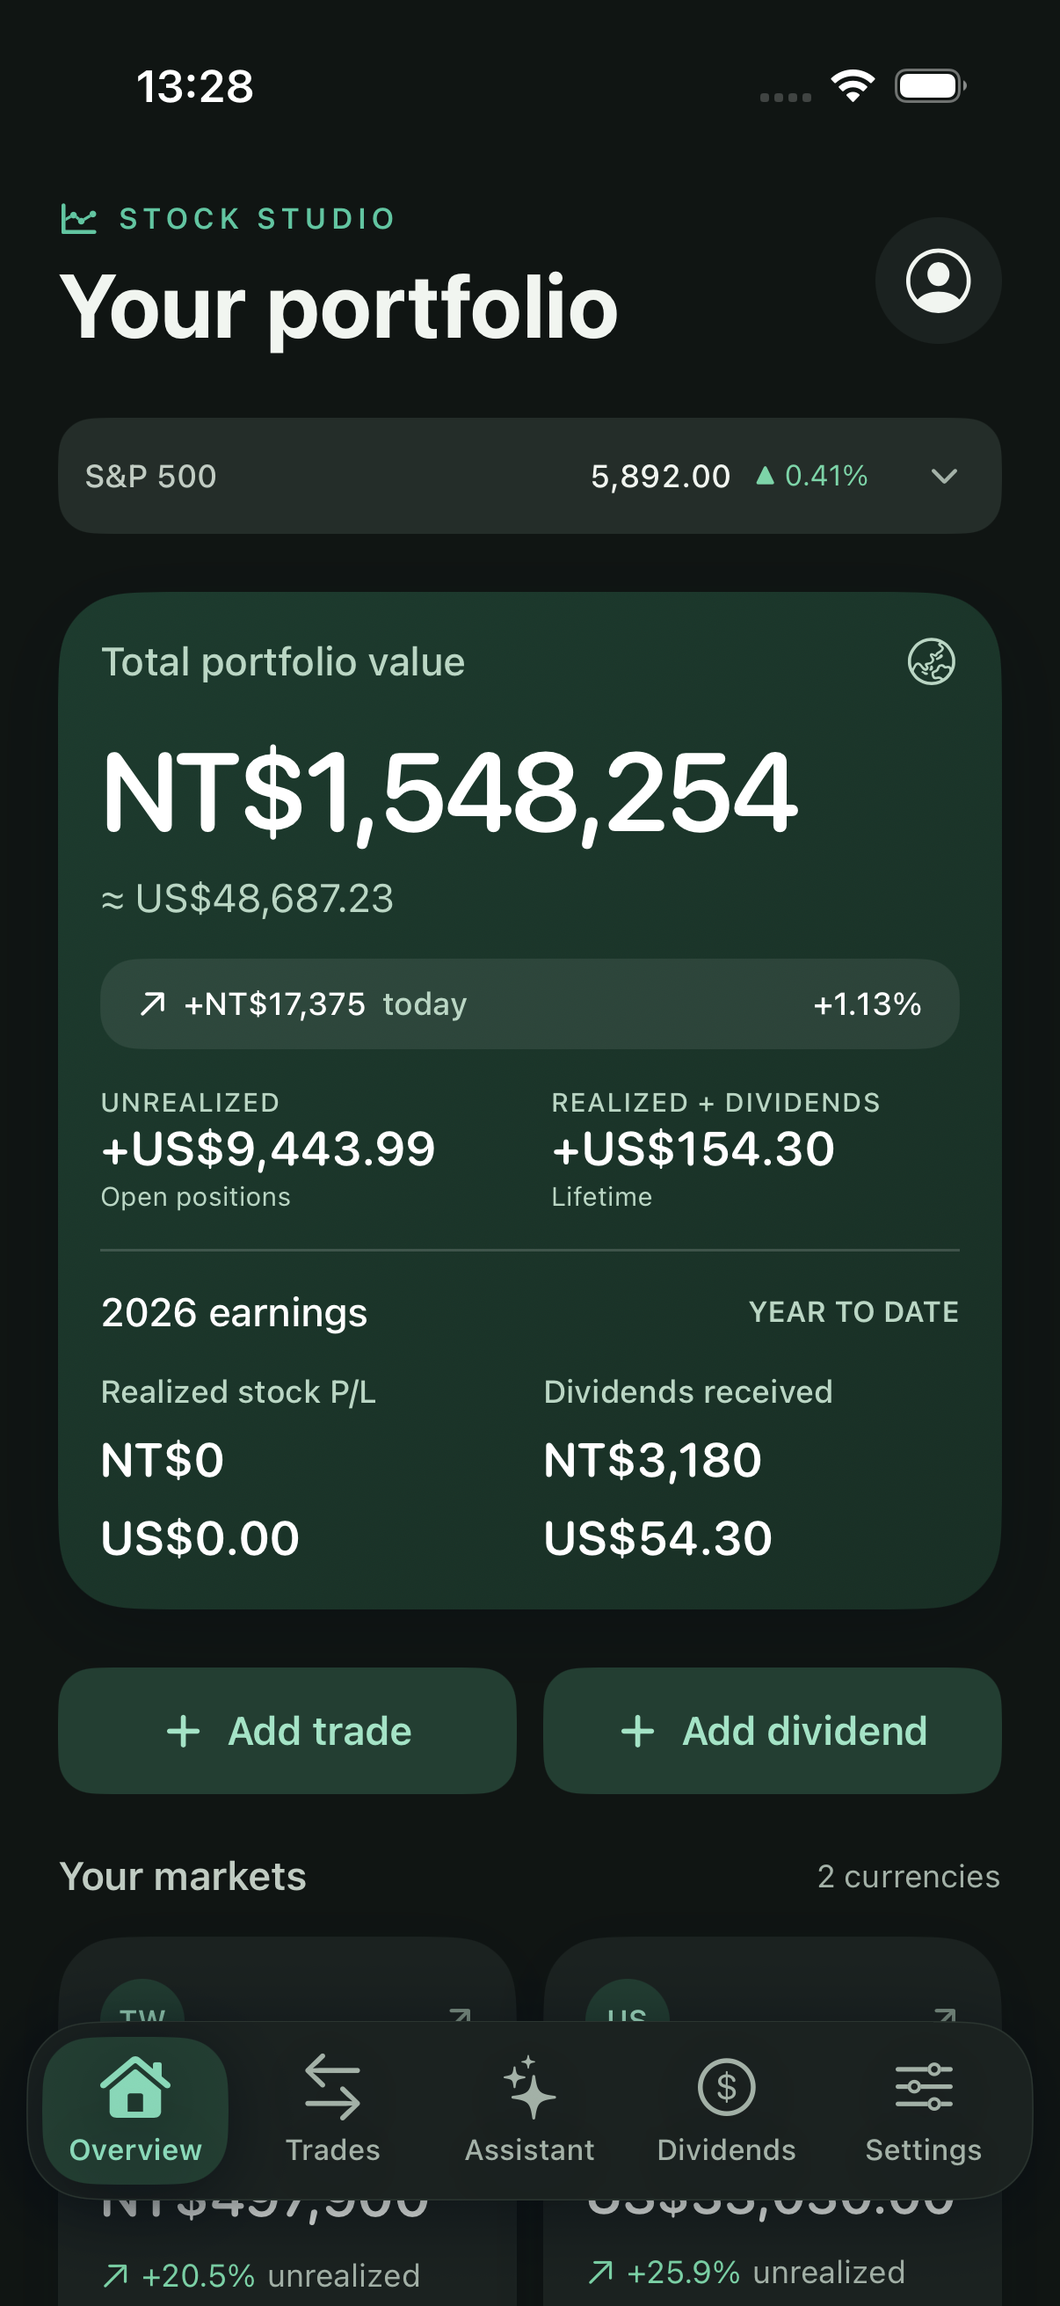
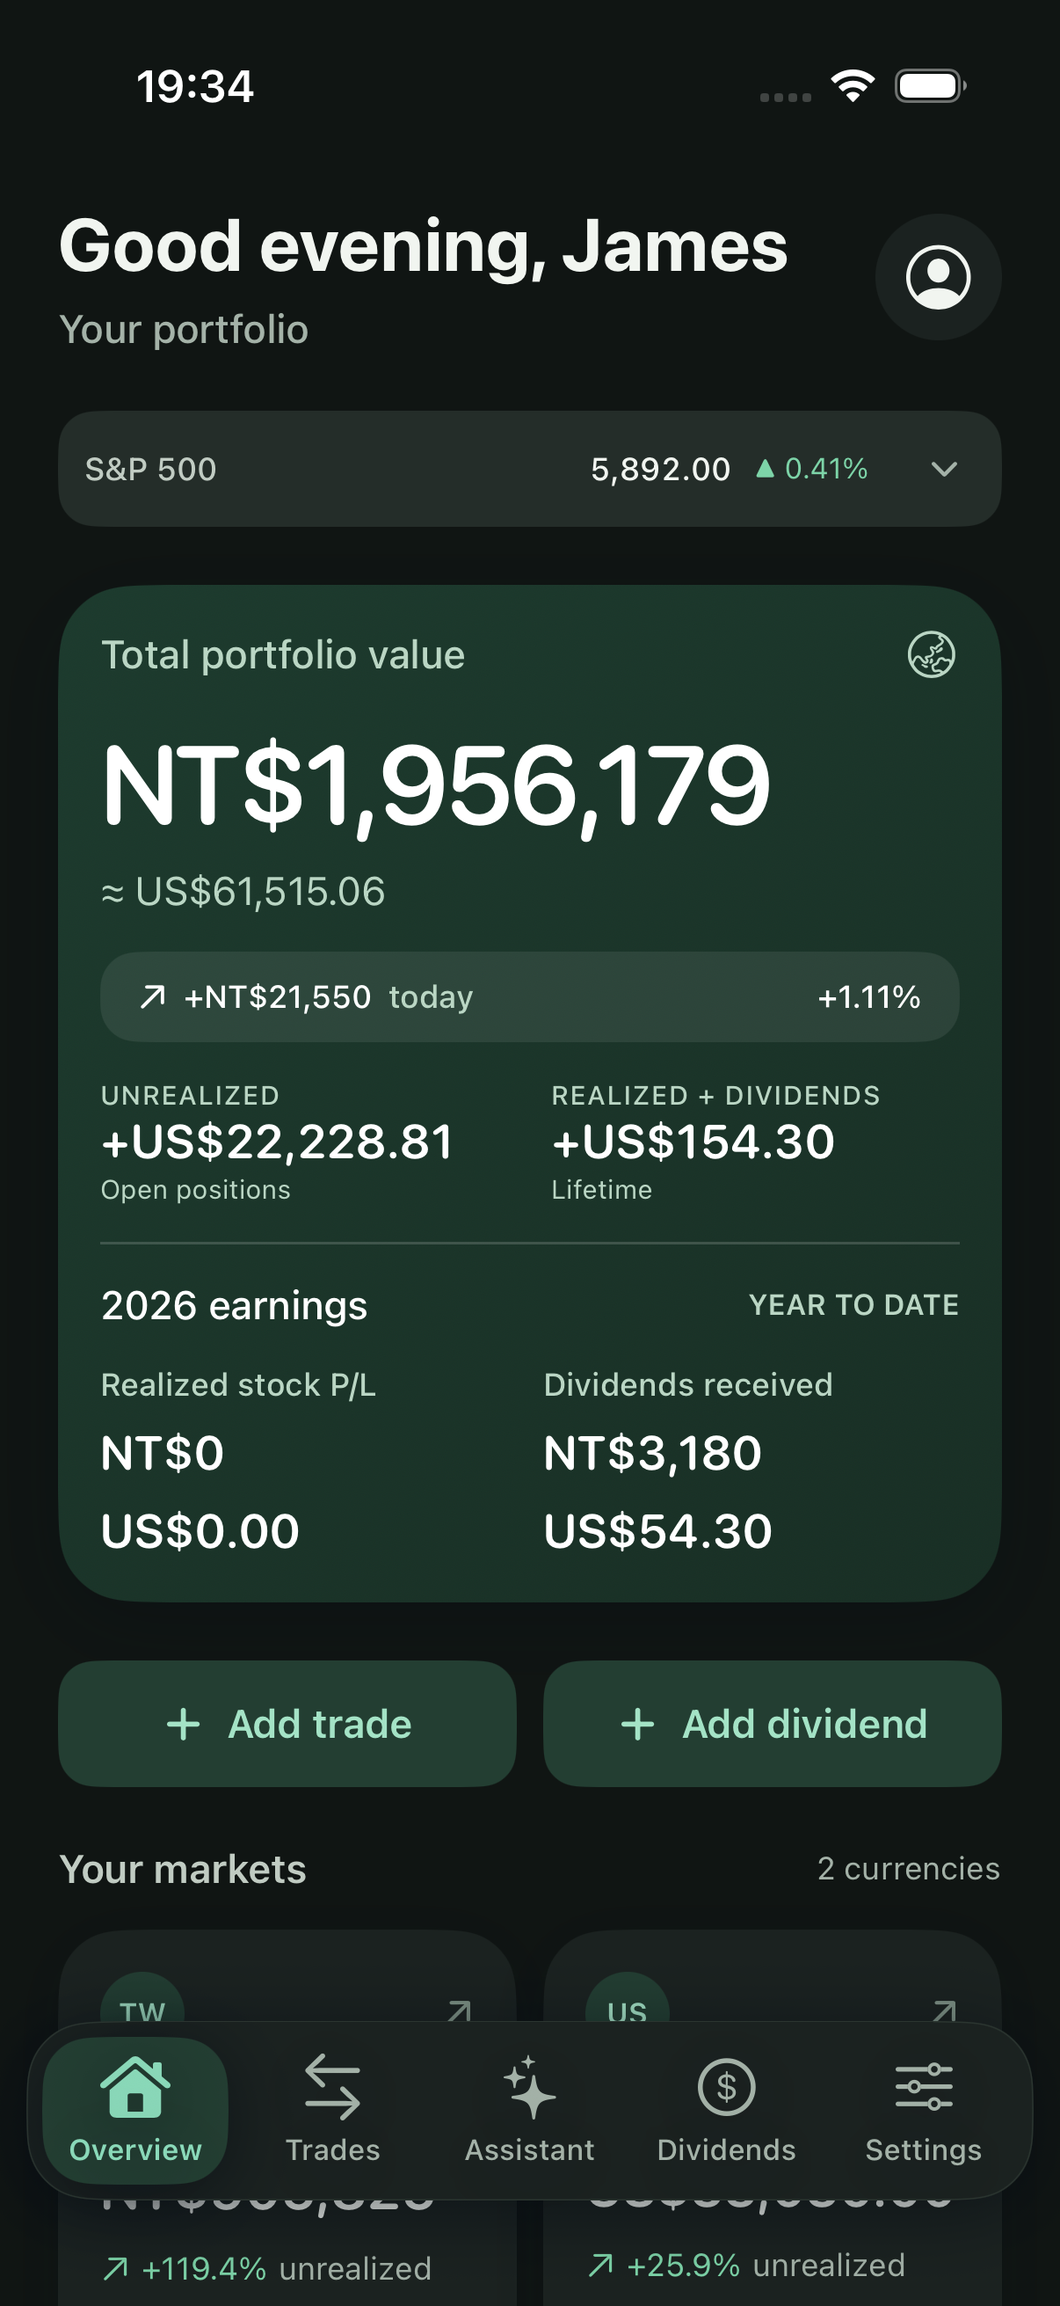
Personalize the portfolio header with local-time greetings
Use Google given names and compatible cached-profile fallbacks, retain a smaller portfolio subtitle, and refresh release screenshots. Verified 56 unit tests and light, dark, and large-text greeting UI checks.

diff --git a/ios/StockTracker/Views/Overview/OverviewView.swift b/ios/StockTracker/Views/Overview/OverviewView.swift
@@ -1,11 +1,26 @@
 import SwiftUI
 
+enum PortfolioGreeting {
+    static func text(hour: Int, firstName: String?) -> String {
+        let salutation: String
+        switch hour {
+        case 5..<12: salutation = "Good morning"
+        case 12..<17: salutation = "Good afternoon"
+        default: salutation = "Good evening" // An arrival greeting, including late at night.
+        }
+        guard let name = firstName?.trimmingCharacters(in: .whitespacesAndNewlines),
+              !name.isEmpty else { return salutation }
+        return "\(salutation), \(name)"
+    }
+}
+
 /// The landing screen: one net worth across both markets, the curve that got
 /// there, and a door into each market.
 ///
 /// A value-led overview with quick actions and direct market entry points.
 struct OverviewView: View {
     @EnvironmentObject private var store: PortfolioStore
+    @EnvironmentObject private var auth: AuthStore
     @Environment(\.dynamicTypeSize) private var typeSize
     let onOpenMarket: (MarketCode) -> Void
     var onAskAssistant: () -> Void = {}
@@ -83,9 +98,18 @@ struct OverviewView: View {
     private var header: some View {
         HStack(alignment: .center) {
             VStack(alignment: .leading, spacing: Theme.Space.xs) {
-                BrandLine()
-                Text("Your portfolio").font(Theme.Typo.title).foregroundStyle(Theme.text)
+                TimelineView(.periodic(from: .now, by: 60)) { context in
+                    Text(greeting(at: context.date))
+                        .font(Theme.Typo.headingLg)
+                        .foregroundStyle(Theme.text)
+                        .fixedSize(horizontal: false, vertical: true)
+                        .accessibilityIdentifier("overview.greeting")
+                }
+                Text("Your portfolio")
+                    .font(Theme.Typo.detailMed)
+                    .foregroundStyle(Theme.textSecondary)
             }
+            .frame(maxWidth: .infinity, alignment: .leading)
             Spacer()
             Button(action: onOpenSettings) {
                 Image(systemName: "person.crop.circle")
@@ -97,6 +121,20 @@ struct OverviewView: View {
             .buttonStyle(.plain)
             .accessibilityLabel("Account settings")
         }
+    }
+
+    private func greeting(at date: Date) -> String {
+        var name = auth.user?.firstName
+        var hour = Calendar.current.component(.hour, from: date)
+        #if DEBUG
+        // Deterministic synthetic previews; never changes sign-in or credentials.
+        let preview = ProcessInfo.processInfo.environment
+        if preview["UITEST_GUEST"] == "1" {
+            name = preview["UITEST_GREETING_NAME"] ?? name
+            hour = preview["UITEST_GREETING_HOUR"].flatMap(Int.init) ?? hour
+        }
+        #endif
+        return PortfolioGreeting.text(hour: hour, firstName: name)
     }
 
     private var adaptiveLayout: AnyLayout {

diff --git a/ios/Tests/PortfolioGreetingTests.swift b/ios/Tests/PortfolioGreetingTests.swift
@@ -1,0 +1,44 @@
+import XCTest
+@testable import StockTracker
+
+final class PortfolioGreetingTests: XCTestCase {
+    func testLocalHourBoundaries() {
+        for hour in [0, 4, 17, 21, 23] {
+            XCTAssertEqual(PortfolioGreeting.text(hour: hour, firstName: "James"), "Good evening, James")
+        }
+        for hour in [5, 11] {
+            XCTAssertEqual(PortfolioGreeting.text(hour: hour, firstName: "James"), "Good morning, James")
+        }
+        for hour in [12, 16] {
+            XCTAssertEqual(PortfolioGreeting.text(hour: hour, firstName: "James"), "Good afternoon, James")
+        }
+    }
+
+    func testProviderGivenNameAndExistingProfileFallback() {
+        let user = AuthUser(name: "Chen James", email: "demo@example.com", picture: nil,
+                            provider: "google", givenName: " James ")
+        XCTAssertEqual(user.firstName, "James")
+        let old = AuthUser(name: "  James\tChen  ", email: "demo@example.com", picture: nil, provider: "google")
+        XCTAssertEqual(old.firstName, "James")
+        let localized = AuthUser(name: "陳大明", email: "demo@example.com", picture: nil,
+                                 provider: "google", givenName: "大明")
+        XCTAssertEqual(localized.firstName, "大明")
+    }
+
+    func testGuestAndMissingNamesDoNotExposeEmailOrPlaceholder() {
+        for user in [AuthUser(name: "Guest", email: "", picture: nil, provider: "guest"),
+                     AuthUser(name: "demo@example.com", email: "demo@example.com", picture: nil, provider: "google"),
+                     AuthUser(name: "Signed in", email: "", picture: nil, provider: "google"),
+                     AuthUser(name: " ", email: "", picture: nil, provider: "google")] {
+            XCTAssertNil(user.firstName)
+            XCTAssertEqual(PortfolioGreeting.text(hour: 9, firstName: user.firstName), "Good morning")
+        }
+    }
+
+    func testOlderCachedProfileStillDecodes() throws {
+        let data = Data(#"{"name":"James Chen","email":"demo@example.com","provider":"google"}"#.utf8)
+        let user = try JSONDecoder().decode(AuthUser.self, from: data)
+        XCTAssertNil(user.givenName)
+        XCTAssertEqual(user.firstName, "James")
+    }
+}

diff --git a/ios/UITests/ProductTour.swift b/ios/UITests/ProductTour.swift
@@ -34,6 +34,33 @@ final class ProductTour: XCTestCase {
     func testLight() { tour("light") }
     func testDark() { tour("dark") }
 
+    func testGreetingLight() { checkGreeting("light", hour: 9, name: "James", expected: "Good morning, James") }
+    func testGreetingDark() { checkGreeting("dark", hour: 19, name: "James", expected: "Good evening, James") }
+    func testGreetingLargeText() {
+        checkGreeting("light", hour: 14, name: "Alexandria", expected: "Good afternoon, Alexandria", largeText: true)
+    }
+
+    private func checkGreeting(_ theme: String, hour: Int, name: String, expected: String, largeText: Bool = false) {
+        continueAfterFailure = false
+        let app = XCUIApplication()
+        app.launchArguments = ["-api.baseURL", "http://127.0.0.1:8099", "-appearance", theme]
+        if largeText { app.launchArguments += ["-UIPreferredContentSizeCategoryName", "UICTContentSizeCategoryAccessibilityM"] }
+        app.launchEnvironment = ["UITEST_GUEST": "1", "UITEST_GREETING_NAME": name, "UITEST_GREETING_HOUR": String(hour)]
+        app.launch()
+        let greeting = app.staticTexts["overview.greeting"]
+        XCTAssertTrue(greeting.waitForExistence(timeout: 15))
+        XCTAssertEqual(greeting.label, expected)
+        XCTAssertTrue(greeting.isHittable)
+        XCTAssertTrue(app.staticTexts["Your portfolio"].isHittable)
+        let settings = app.buttons["Account settings"]
+        XCTAssertTrue(settings.isHittable)
+        XCTAssertLessThanOrEqual(greeting.frame.maxX, settings.frame.minX)
+        XCTAssertLessThanOrEqual(greeting.frame.maxY, app.staticTexts["Your portfolio"].frame.minY)
+        XCTAssertTrue(app.buttons["marketTicker.next"].waitForExistence(timeout: 10))
+        snap(app, largeText ? "greeting-large-text" : "greeting-\(theme)")
+        app.terminate()
+    }
+
     func testYearEarningsLight() { checkYearEarnings("light") }
     func testYearEarningsDark() { checkYearEarnings("dark") }
     func testYearEarningsLargeText() { checkYearEarnings("light", largeText: true) }

diff --git a/ios/StockTracker/Auth/AuthStore.swift b/ios/StockTracker/Auth/AuthStore.swift
@@ -6,6 +6,16 @@ struct AuthUser: Codable, Equatable {
     let email: String
     let picture: String?
     let provider: String   // "google" | "guest"
+    var givenName: String? = nil
+
+    var firstName: String? {
+        guard !isGuest else { return nil }
+        let given = givenName?.trimmingCharacters(in: .whitespacesAndNewlines)
+        if let given, !given.isEmpty { return given }
+        let clean = name.trimmingCharacters(in: .whitespacesAndNewlines)
+        guard !clean.isEmpty, !clean.contains("@"), clean != "Signed in" else { return nil }
+        return clean.split(whereSeparator: \.isWhitespace).first.map(String.init)
+    }
 
     var isGuest: Bool { provider == "guest" }
     var initials: String {
@@ -44,7 +54,14 @@ final class AuthStore: ObservableObject {
 
     private func restore() {
         if let data = UserDefaults.standard.data(forKey: Self.userKey),
-           let user = try? JSONDecoder().decode(AuthUser.self, from: data) {
+           var user = try? JSONDecoder().decode(AuthUser.self, from: data) {
+            // Upgrade older cached profiles without requiring another sign-in.
+            if !user.isGuest, user.givenName == nil,
+               let token = Keychain.get(Self.tokenKey),
+               let identity = try? GoogleAuth.decodeIdentity(token),
+               identity.email == user.email {
+                user.givenName = identity.givenName
+            }
             state = .signedIn(user)
         } else {
             state = .signedOut
@@ -63,7 +80,7 @@ final class AuthStore: ObservableObject {
                 Keychain.set(refresh, for: Self.refreshTokenKey)
             }
             let user = AuthUser(name: identity.name, email: identity.email,
-                                picture: identity.picture, provider: "google")
+                                picture: identity.picture, provider: "google", givenName: identity.givenName)
             persist(user)
         } catch GoogleAuthError.cancelled {
             // user backed out — no error banner

diff --git a/ios/StockTracker/Auth/GoogleAuth.swift b/ios/StockTracker/Auth/GoogleAuth.swift
@@ -31,6 +31,7 @@ struct GoogleIdentity {
     let email: String
     let name: String
     let picture: String?
+    var givenName: String? = nil
 }
 
 @MainActor
@@ -187,7 +188,8 @@ final class GoogleAuth: NSObject, ASWebAuthenticationPresentationContextProvidin
             sub: sub,
             email: obj["email"] as? String ?? "",
             name: obj["name"] as? String ?? (obj["email"] as? String ?? "Signed in"),
-            picture: obj["picture"] as? String
+            picture: obj["picture"] as? String,
+            givenName: obj["given_name"] as? String
         )
     }
 }

diff --git a/README.md b/README.md
@@ -36,7 +36,7 @@ AI Stock Studio brings these workflows into one self-hosted application. Its cor
 ## Product tour
 
 <p align="center">
-  <img src="docs/screenshots/ios-overview.png" width="30%" alt="Version 2.0.13 portfolio overview with rotating indices and current-year earnings" />
+  <img src="docs/screenshots/ios-overview.png" width="30%" alt="Version 2.0.14 portfolio overview with rotating indices and current-year earnings" />
   <img src="docs/screenshots/ios-dividend-entry.png" width="30%" alt="Add dividend form opened from the portfolio shortcut" />
   <img src="docs/screenshots/ios-assistant.png" width="30%" alt="Redesigned assistant welcome page with editable portfolio prompts" />
 </p>
@@ -46,8 +46,9 @@ AI Stock Studio brings these workflows into one self-hosted application. Its cor
   <img src="docs/screenshots/ios-stock.png" width="30%" alt="Native stock detail and position view" />
 </p>
 
-Screenshots use **synthetic demonstration portfolios**. iOS version **2.0.13 (build 20)** includes light/dark appearances and five destinations: Overview, Trades, Assistant, Dividends, and Settings.
+Screenshots use **synthetic demonstration portfolios** and fixed greeting hours. iOS version **2.0.14 (build 21)** includes light/dark appearances and five destinations: Overview, Trades, Assistant, Dividends, and Settings.
 
+- **Personal welcome:** a local-time greeting uses the signed-in user’s first name, with “Your portfolio” retained as a smaller subtitle.
 - **Portfolio accounting:** Taiwan moving-average and US FIFO cost basis, realized/unrealized P&L, and current-year earnings by currency.
 - **Market context:** configurable indices, stock charts, dated performance windows, and benchmark comparisons.
 - **AI assistance:** portfolio queries, readable tables, editable follow-ups, and confirmation cards for proposed record changes.
@@ -143,16 +144,16 @@ npm run build
 The backend suite covers account isolation, market-specific accounting, year-to-date earnings, tool calls, confirmation proposals, image handling, exact dated returns, credential failures, Unicode passwords, and token expiry/rotation. Ordinary runs skip the explicitly opt-in live Gemini tests. CI runs the backend tests and a clean web build; native iOS tests require Xcode.
 
 <details>
-<summary>Previously recorded local verification — 2.0.13 (October 27, 2026)</summary>
+<summary>Previously recorded local verification — 2.0.14 (October 27, 2026)</summary>
 
 These are release verification results, not a live report of the current checkout. Use the commands above and the linked CI workflow to check a new revision.
 
 | Check | Result |
 | :--- | :--- |
 | Backend, isolated SQLite | 128 passed; 12 opt-in live tests skipped |
-| iOS unit tests | 52 passed |
-| iOS UI regression checks | 15 distinct cases across targeted runs: product tours, YTD layout, navigation, form cancellation, chat, index rotation and retry |
-| Release build | iPhone release build succeeds; 2.0.13 (20) installed on device |
+| iOS unit tests | 56 passed |
+| iOS UI regression checks | 18 distinct cases across targeted runs: product tours, YTD layout, navigation, form cancellation, chat, index rotation, retry, and personalized greetings |
+| Release build | iPhone release build succeeds; 2.0.14 (21) installed on device |
 | Live OTC data | Official quote and rolling one-month chart history verified through the hosted API |
 
 The previous assistant verification passed 22 distinct UI cases. All 12 live

diff --git a/ios/README.md b/ios/README.md
@@ -5,7 +5,7 @@ FastAPI backend (`../backend`) over HTTP — there is no web view, this is a rea
 native app. Unlike the browser frontend, native `URLSession` is not subject to
 CORS, so it calls the API directly.
 
-## Current release: 2.0.13 (build 20)
+## Current release: 2.0.14 (build 21)
 
 Studio 2 uses native iOS typography, teal and neutral surfaces, light/dark
 appearances, and five persistent tabs: Overview, Trades, Assistant, Dividends,
@@ -13,6 +13,11 @@ and Settings. The tab bar remains reachable during keyboard input.
 
 The inset navigation dock highlights the full selected item, keeps all five
 destinations visible above the keyboard, and uses a short selection fade that respects Reduce Motion.
+
+Overview welcomes the signed-in user by first name using the iPhone’s local
+time. The greeting refreshes while the page is open; “Your portfolio” remains
+as a smaller subtitle. Guests and profiles without a usable name get a neutral
+greeting.
 
 Overview rotates configured indices below the title. One portfolio card combines
 value, today’s move, lifetime figures, and current-year realized stock P/L and
@@ -164,8 +169,8 @@ StockTracker/
 
 ## Verification
 
-The 2.0.13 update passed 52 iOS unit tests and 128 offline backend tests (12 live
-provider cases skipped), plus 15 distinct targeted UI checks. YTD checks exercise both appearances,
+The 2.0.14 update passed 56 iOS unit tests and 128 offline backend tests (12 live
+provider cases skipped), plus 18 distinct targeted UI checks. YTD checks exercise both appearances,
 large text, separate currencies, and navigation. Full product tours generate the
 README screenshots. See [the preview guide](DesignPreview/README.md) for commands.
 Never run a test fixture against the hosted portfolio or a production database.

diff --git a/ios/DesignPreview/README.md b/ios/DesignPreview/README.md
@@ -83,3 +83,18 @@ checks both forms can be cancelled without saving. `MarketTickerTests` also
 uses `index_preview_server.py` (port 8111) to exercise empty and failed index
 history, a completed loading state, and successful Retry. The production OTC
 adapter uses official TWSE MIS quotes and TPEx monthly history.
+
+## Personal greeting
+
+Overview uses the signed-in profile’s given name, with a first-word fallback for
+older profiles. Google identity claims can upgrade a cached profile without a
+new sign-in. Guests and missing names receive an unnamed greeting; email
+addresses are not used as names. Morning is 05:00–11:59, afternoon is
+12:00–16:59, and evening covers the remaining local hours. The header refreshes
+every minute and retains “Your portfolio” as a smaller subtitle.
+
+`PortfolioGreetingTests` covers time boundaries, profile fallback and older
+cache decoding. Three focused `ProductTour/testGreeting*` checks cover both
+appearances and large text. Debug-only `UITEST_GREETING_NAME` and
+`UITEST_GREETING_HOUR` apply only alongside `UITEST_GUEST=1` and do not modify
+credentials or account state.

diff --git a/docs/GALLERY.md b/docs/GALLERY.md
@@ -1,7 +1,7 @@
 # Product gallery
 
-Stock Studio **2.0.13 (build 20)**. These iOS screenshots were captured from the
-current simulator build using synthetic records; they are not a real portfolio
+Stock Studio **2.0.14 (build 21)**. These iOS screenshots show the
+current design using synthetic records and fixed greeting hours; they are not a real portfolio
 or examples of guaranteed investment returns. [Back to overview](../README.md).
 
 ## Portfolio and dividend entry
@@ -40,6 +40,6 @@ verified separately from these deterministic UI demonstrations.
 ## Web dashboard
 
 The read-only web client retains its separate visual design. This web screenshot
-is separate from the iOS 2.0.13 tour.
+is separate from the iOS 2.0.14 tour.
 
 ![Read-only browser dashboard](screenshots/web-dashboard.png)

diff --git a/docs/FEATURES.md b/docs/FEATURES.md
@@ -1,10 +1,13 @@
 # Feature reference
 
-Current iOS release: **2.0.13 (build 20)**. Screenshots in the
+Current iOS release: **2.0.14 (build 21)**. Screenshots in the
 [gallery](GALLERY.md) use synthetic demonstration records.
 
 ### Multi-market overview
 
+- A personal greeting follows local morning, afternoon, and evening hours,
+  using the Google given name or the first name from an older cached profile.
+  “Your portfolio” remains a smaller subtitle.
 - Five persistent tabs: Overview, Trades, Assistant, Dividends, and Settings.
   Trades and Dividends support TW/US filtering; the market drives each record's currency.
 - Combined portfolio value in NT$ and an approximate US$ equivalent using the

diff --git a/design_handoff_ios_ui/README.md b/design_handoff_ios_ui/README.md
@@ -1,7 +1,7 @@
 # Archived handoff: AI Stock Studio — original iOS UI design
 
 This folder preserves an earlier design specification. It is not the current
-release specification: Stock Studio 2.0.13 uses teal surfaces, native San Francisco
+release specification: Stock Studio 2.0.14 uses teal surfaces, native San Francisco
 typography, an inset navigation dock, and Taiwan moving-average / US FIFO
 accounting. See the [current app guide](../ios/README.md) and
 [product gallery](../docs/GALLERY.md) for the implemented design.
